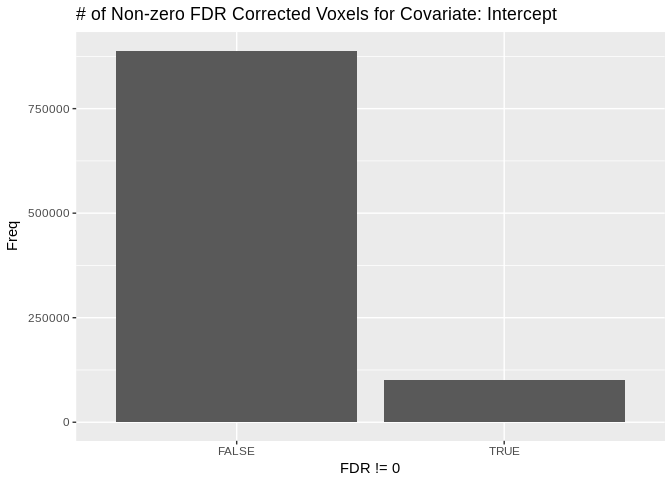
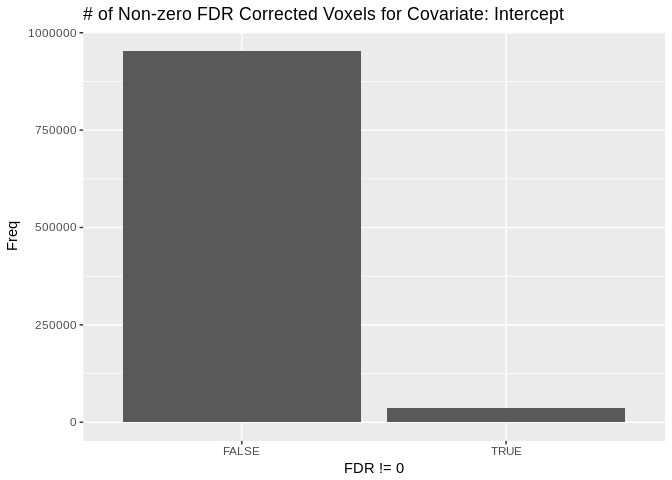
completed raw CBF voxelwise

diff --git a/code/VoxelWrapperModels/MassUnivariate_Voxelwise.md b/code/VoxelWrapperModels/MassUnivariate_Voxelwise.md
@@ -17,7 +17,7 @@ set.seed(1000)
 print(paste("Updated:", format(Sys.time(), '%Y-%m-%d ')))
 ```
 
-    ## [1] "Updated: 2019-01-31 "
+    ## [1] "Updated: 2019-02-01 "
 
 How to Run Voxelwise `gam()` with `voxelwrapper`
 ================================================
@@ -25,7 +25,7 @@ How to Run Voxelwise `gam()` with `voxelwrapper`
 Set up
 ------
 
-Here we demonstrate the multivariate voxelwise `gam()` for `CBF ~s(age)+s(age,by=sex)+sex+pcaslRelMeanRMSMotion` for a small sample, using ISLA-corrected CBF data. We walk through the arguments of the voxelwrapper, creating each within this notebook.
+Here we demonstrate the multivariate voxelwise `gam()` for `CBF ~s(age)+s(age,by=sex)+sex+pcaslRelMeanRMSMotion` for a small sample, using raw CBF data. We walk through the arguments of the voxelwrapper, creating each within this notebook.
 
 1.  `covariates`
 
@@ -144,33 +144,57 @@ Results
 The results can be found in the `../results/` directory, where the images of the final voxelwise tests are output as nifti's.
 
 ``` r
-#fdr_images <-
-#  list.files("/data/jux/BBL/projects/isla/results/n30_path_include_smooth0/n30gam_Cov_sage_sagebysex_sex_pcaslRelMeanRMSMotion/",
-#  pattern = "fdr",
-#  full.names = TRUE) %>%
-#  lapply(., readNIfTI, reorient = FALSE)
+fdr_images <-
+  list.files("/data/jux/BBL/projects/isla/results/rawCBF/n1132_path_include_smooth0/n1132gam_Cov_sage_sagebysex_sex_pcaslRelMeanRMSMotion/",
+  pattern = "fdr",
+  full.names = TRUE) %>%
+  lapply(., readNIfTI, reorient = FALSE)
 
-# output_covariates <- list.files("/data/jux/BBL/projects/isla/results/n30_path_include_smooth0/n30gam_Cov_sage_sagebysex_sex_pcaslRelMeanRMSMotion/",
-#                                pattern = "fdr") %>%
-#  str_match(string = ., pattern = "fdr_(.*)\\.nii") %>%
-#  .[,2] %>%
-#  str_replace(pattern = "sage", "s(age)") %>%
-#  str_replace(pattern = "and", " & ")
+output_covariates <- list.files("/data/jux/BBL/projects/isla/results/rawCBF/n1132_path_include_smooth0/n1132gam_Cov_sage_sagebysex_sex_pcaslRelMeanRMSMotion/",
+                                pattern = "fdr") %>%
+  str_match(string = ., pattern = "fdr_(.*)\\.nii") %>%
+  .[,2] %>%
+  str_replace(pattern = "sage", "s(age)") %>%
+  str_replace(pattern = "and", " & ")
 
-#plotFDR <- function(nim, title) {
+plotFDR <- function(nim, title) {
 
-#  dat <- img_data(nim)
-#  table(dat != 0) %>%
-#    data.frame() %>%
-#    ggplot(aes(x = Var1, y = Freq)) +
-#    geom_col() +
-#    labs(title = sprintf("# of Non-zero FDR Corrected Voxels for Covariate: %s", title),
-#         x = "FDR != 0")
-#}
+  dat <- img_data(nim)
+  table(dat != 0) %>%
+    data.frame() %>%
+    ggplot(aes(x = Var1, y = Freq)) +
+    geom_col() +
+    labs(title = sprintf("# of Non-zero FDR Corrected Voxels for Covariate: %s", title),
+         x = "FDR != 0")
+}
 ```
 
 Below are plots of the \# of non-zero FDR corrected voxels for each covariate's nifti output:
 
 ``` r
-#purrr::map2(fdr_images, output_covariates, plotFDR)
+purrr::map2(fdr_images, output_covariates, plotFDR)
 ```
+
+    ## [[1]]
+
+![](MassUnivariate_Voxelwise_files/figure-markdown_github/unnamed-chunk-12-1.png)
+
+    ## 
+    ## [[2]]
+
+![](MassUnivariate_Voxelwise_files/figure-markdown_github/unnamed-chunk-12-2.png)
+
+    ## 
+    ## [[3]]
+
+![](MassUnivariate_Voxelwise_files/figure-markdown_github/unnamed-chunk-12-3.png)
+
+    ## 
+    ## [[4]]
+
+![](MassUnivariate_Voxelwise_files/figure-markdown_github/unnamed-chunk-12-4.png)
+
+    ## 
+    ## [[5]]
+
+![](MassUnivariate_Voxelwise_files/figure-markdown_github/unnamed-chunk-12-5.png)
